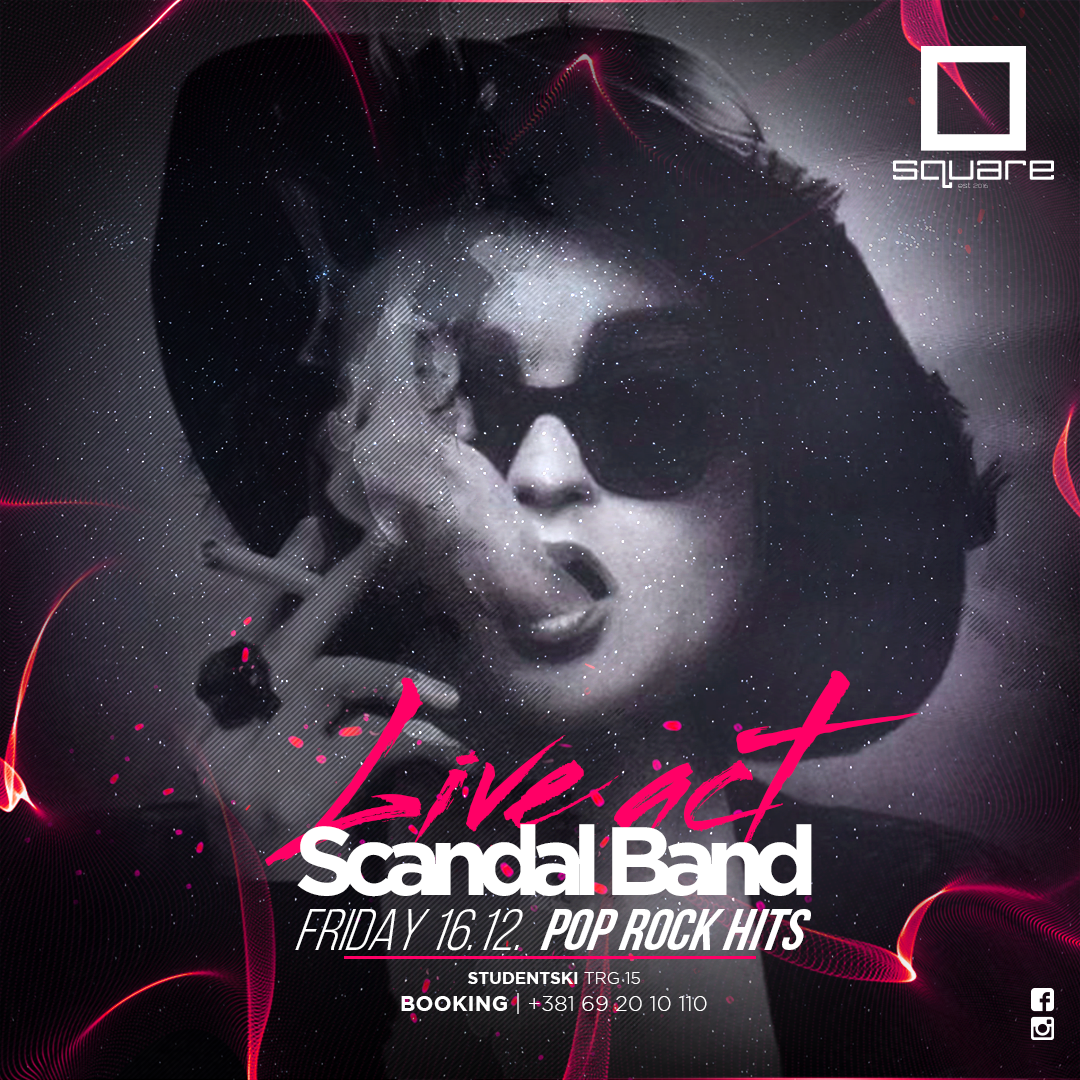
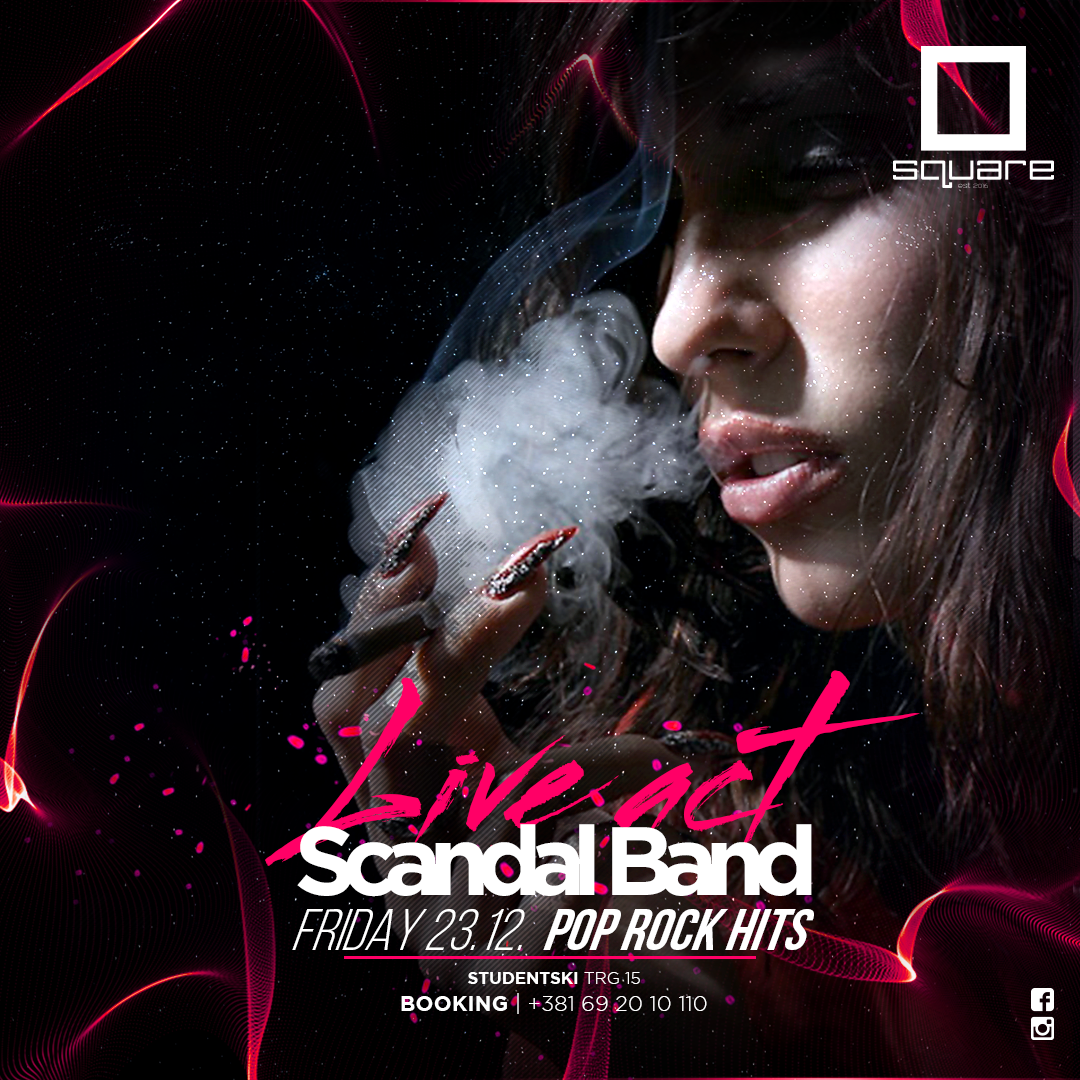
odrzavanje part 1
fali album za subotu

diff --git a/resources/views/home.blade.php b/resources/views/home.blade.php
@@ -82,7 +82,7 @@
                             <li class="col-sm-3">
                                 <figure><a href="{{ route("album", ["album" => "08122016"]) }}" class="info">
                                     <figcaption>
-                                        <img src="<?php echo url("") ?>/images/events/thursday.jpg" alt="">
+                                        <img src="<?php echo url("") ?>/images/events/thursday.png" alt="">
                                     </figcaption>
                                     <div class="content">
                                         <div class="eventHover">
@@ -94,7 +94,7 @@
                                             <div class="evSubtitle">DJ ALEX TIC</div>
                                             <div class="dateOfParty"> 
                                                 <div  class="evTitle"> next </div>
-                                                15/12/2016 
+                                                22/12/2016 
                                             </div>
                                         </div>
                                     </div>
@@ -116,7 +116,7 @@
                                             <div class="evSubtitle">Scandal Band</div>
                                             <div class="dateOfParty"> 
                                                 <div  class="evTitle"> next </div>
-                                                16/12/2016 
+                                                23/12/2016 
                                             </div>
                                         </div>
                                     </div>
@@ -138,7 +138,7 @@
                                             <div class="evSubtitle">COLLE & MARC FUNK </div>
                                             <div class="dateOfParty"> 
                                                 <div  class="evTitle"> next </div>
-                                                17/12/2016 
+                                                24/12/2016 
                                             </div>
                                         </div>
                                     </div>
@@ -160,7 +160,7 @@
                                             <div class="evSubtitle">DJ Prema</div>
                                             <div class="dateOfParty"> 
                                                 <div  class="evTitle"> next </div>
-                                                18/12/2016 
+                                                01/01/2017 
                                             </div>
                                         </div>
                                     </div>
@@ -548,7 +548,7 @@
                                     <!-- Single Album Image -->
                                     <figcaption>
                                         <div class="hovereffect">
-                                            <img class="img-responsive" src="<?php echo url("") ?>/images/albums/album_01122016/cover.jpg" alt="">
+                                            <img class="img-responsive" src="<?php echo url("") ?>/images/albums/album_01122016/cover.jpg" alt="">        
                                         </div>
                                     </figcaption>
                                     <div class="album-title">
@@ -564,7 +564,7 @@
                                                 <a href="{{ route("album", ["album" => "01122016"]) }}" class="info"> view album </a>
                                             </div>
                                         </div>
-                                    </div>                                    
+                                    </div>
                                 </figure>
                             </article>
                         </div>

diff --git a/resources/views/layouts/master.blade.php b/resources/views/layouts/master.blade.php
@@ -138,10 +138,10 @@
                                                 <option value="Pult">Bar (without conditions)</option>
                                             </select> 
                                             <select id="day" name="day" aria-required="true" required="">
-                                                <option value="Cetvrtak 15.12.2016.">Thursday | 15.12.2016. | The Nineties</option>
-                                                <option value="Petak 16.12.2016.">Friday | 16.12.2016. | Make Some Love</option>
-                                                <option value="Subota 17.12.2016.">Saturday | 17.12.2016. | Blood & Mode</option>
-                                                <option value="Nedelja 18.12.2016." selected="true">Sunday | 18.12.2016. | Total RnB</option>
+                                                <option value="Cetvrtak 22.12.2016.">Thursday | 22.12.2016. | The Nineties</option>
+                                                <option value="Petak 23.12.2016.">Friday | 23.12.2016. | Make Some Love</option>
+                                                <option value="Subota 24.12.2016.">Saturday | 24.12.2016. | Blood & Mode</option>
+                                                <option value="Nedelja 25.12.2016." selected="true">Sunday | 25.12.2016. | Total RnB</option>
                                             </select>                                             
                                             <textarea id="content" name="content" placeholder="Message..." rows="4"></textarea>
                                             <p class="form-submit">

diff --git a/resources/views/album/01122016.blade.php b/resources/views/album/01122016.blade.php
@@ -16,7 +16,7 @@
                     <div class="breadTxt breadSingle">
                         <h2>1st December, 2016</h2>
                         <p>
-                            This is Thursday in Square club!                            
+                           This is Thursday in Square club!                            
                         </p>
                         <a href="#content" data-easing="easeInOutQuint" data-scroll="" data-speed="900" data-url="false">
                             View More <i class="fa fa-angle-down"></i>
